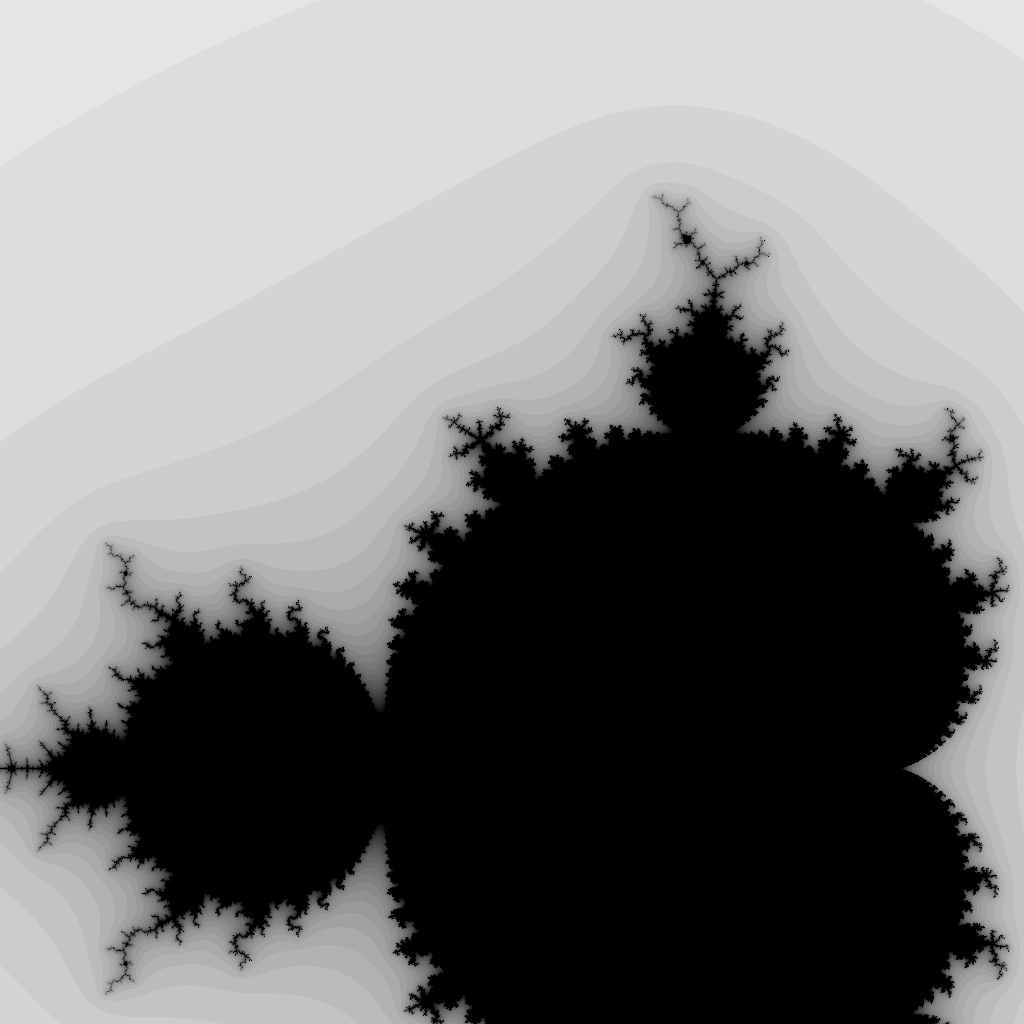
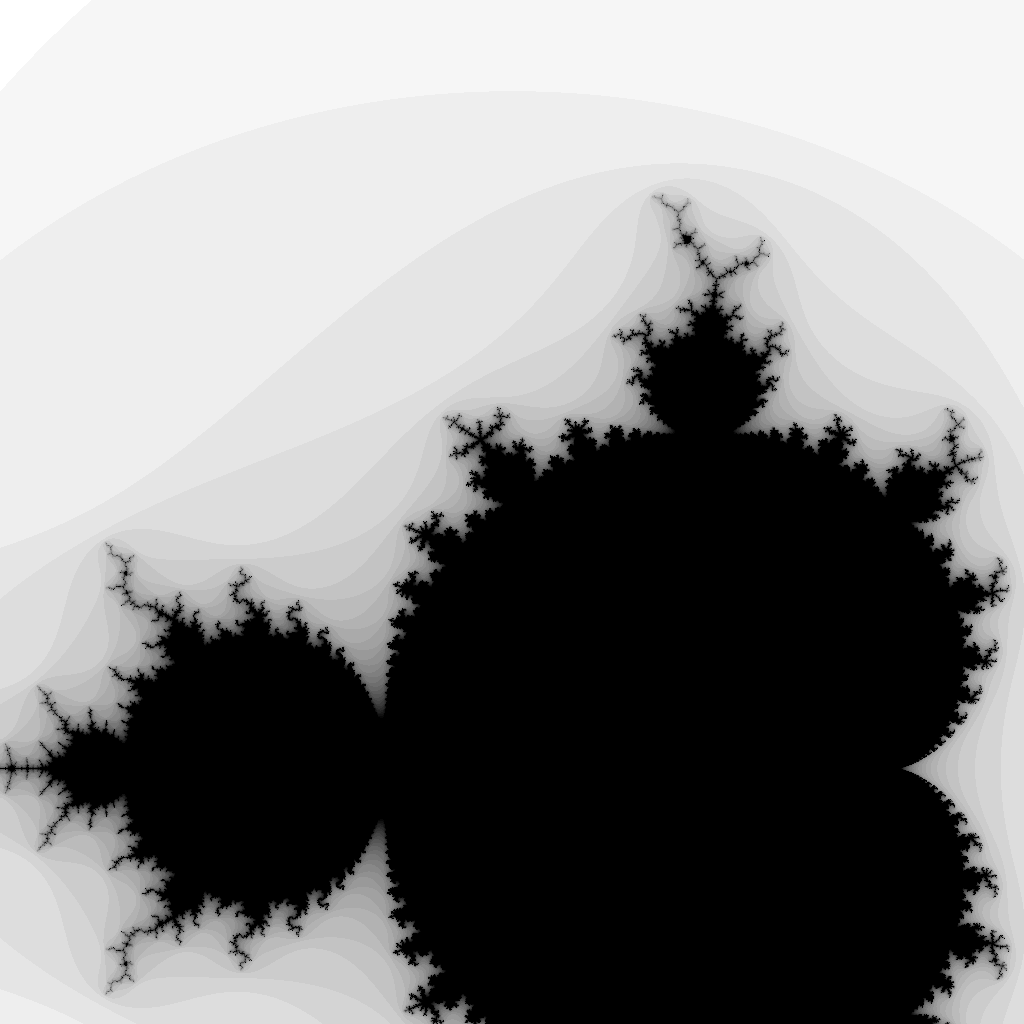
Altered some comments

diff --git a/main.go b/main.go
@@ -32,12 +32,13 @@ func inSet(c complex128, maxIters int) (inSet bool, iters int) {
 	for iters = 0; iters < maxIters; iters++ {
 		// Here is the magic!
 		z = z*z + c
-		// Break if our number exceeds escape conditions
-		if cmplx.Abs(z) > 60 {
+		// abs(z) > 2 is always unbounded, so escape
+		if cmplx.Abs(z) > 2 {
 			inSet = false
 			return
 		}
 	}
+	// If we got here, c is probably in the mandlebrot set
 	inSet = true
 	return
 }
@@ -57,8 +58,8 @@ func main() {
 	for x := 0; x < bounds.Max.X; x++ {
 		for y := 0; y < bounds.Max.Y; y++ {
 			// Generate our complex number, using offsets and scaling (zoom)
-			c := complex(float64(x)/(float64(bounds.Max.X)/zoom)-offsetX,
-				float64(y)/(float64(bounds.Max.Y)/zoom)-offsetY)
+			c := complex(float64(x)/(float64(bounds.Max.X)/zoom)-offsetX, // real (x)
+				float64(y)/(float64(bounds.Max.Y)/zoom)-offsetY) // imag (y)
 
 			_, iters := inSet(c, maxIters)
 			f := float64(iters) / float64(maxIters)
